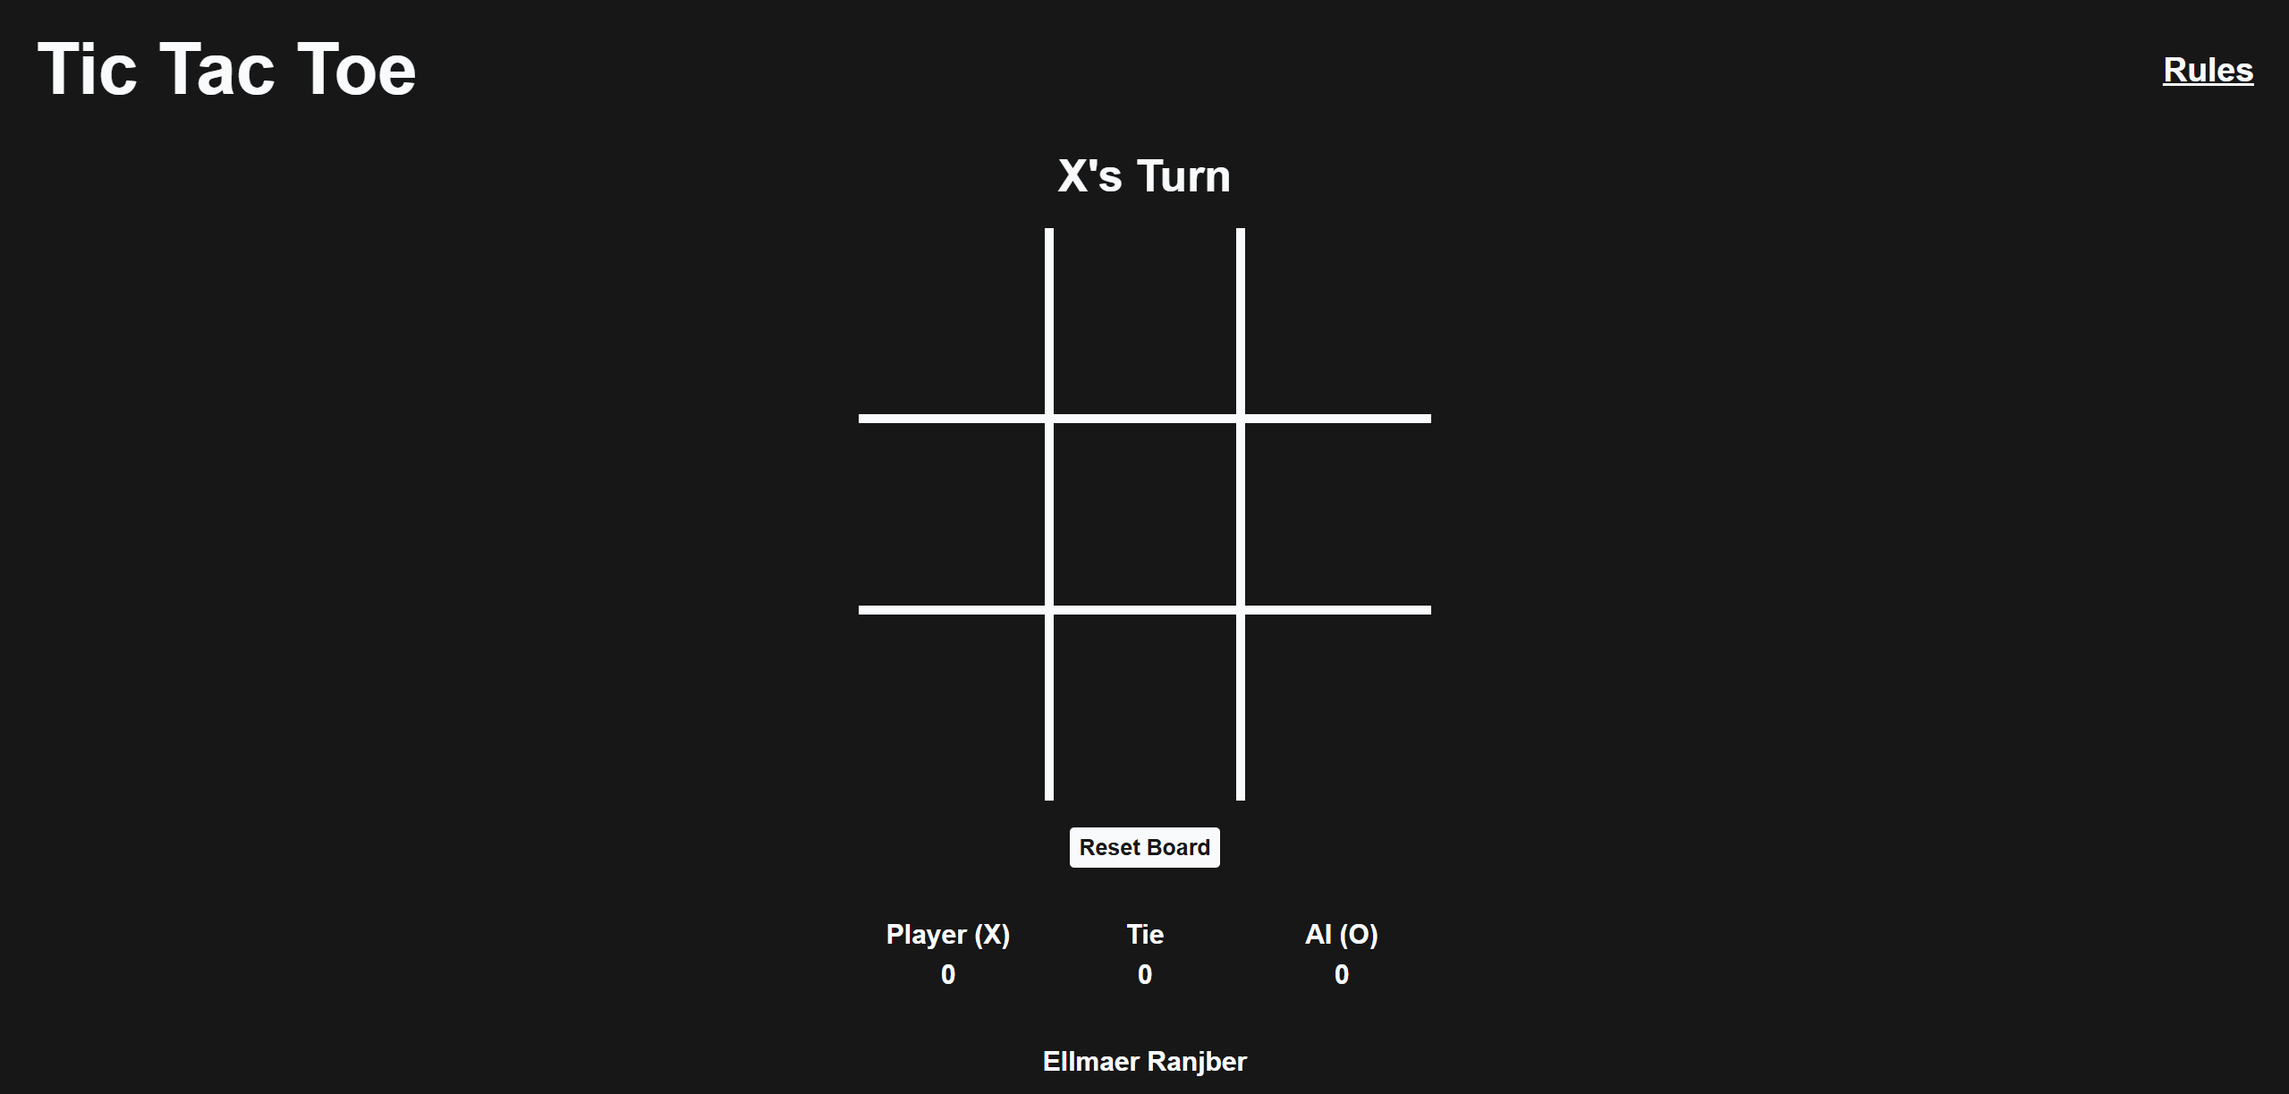
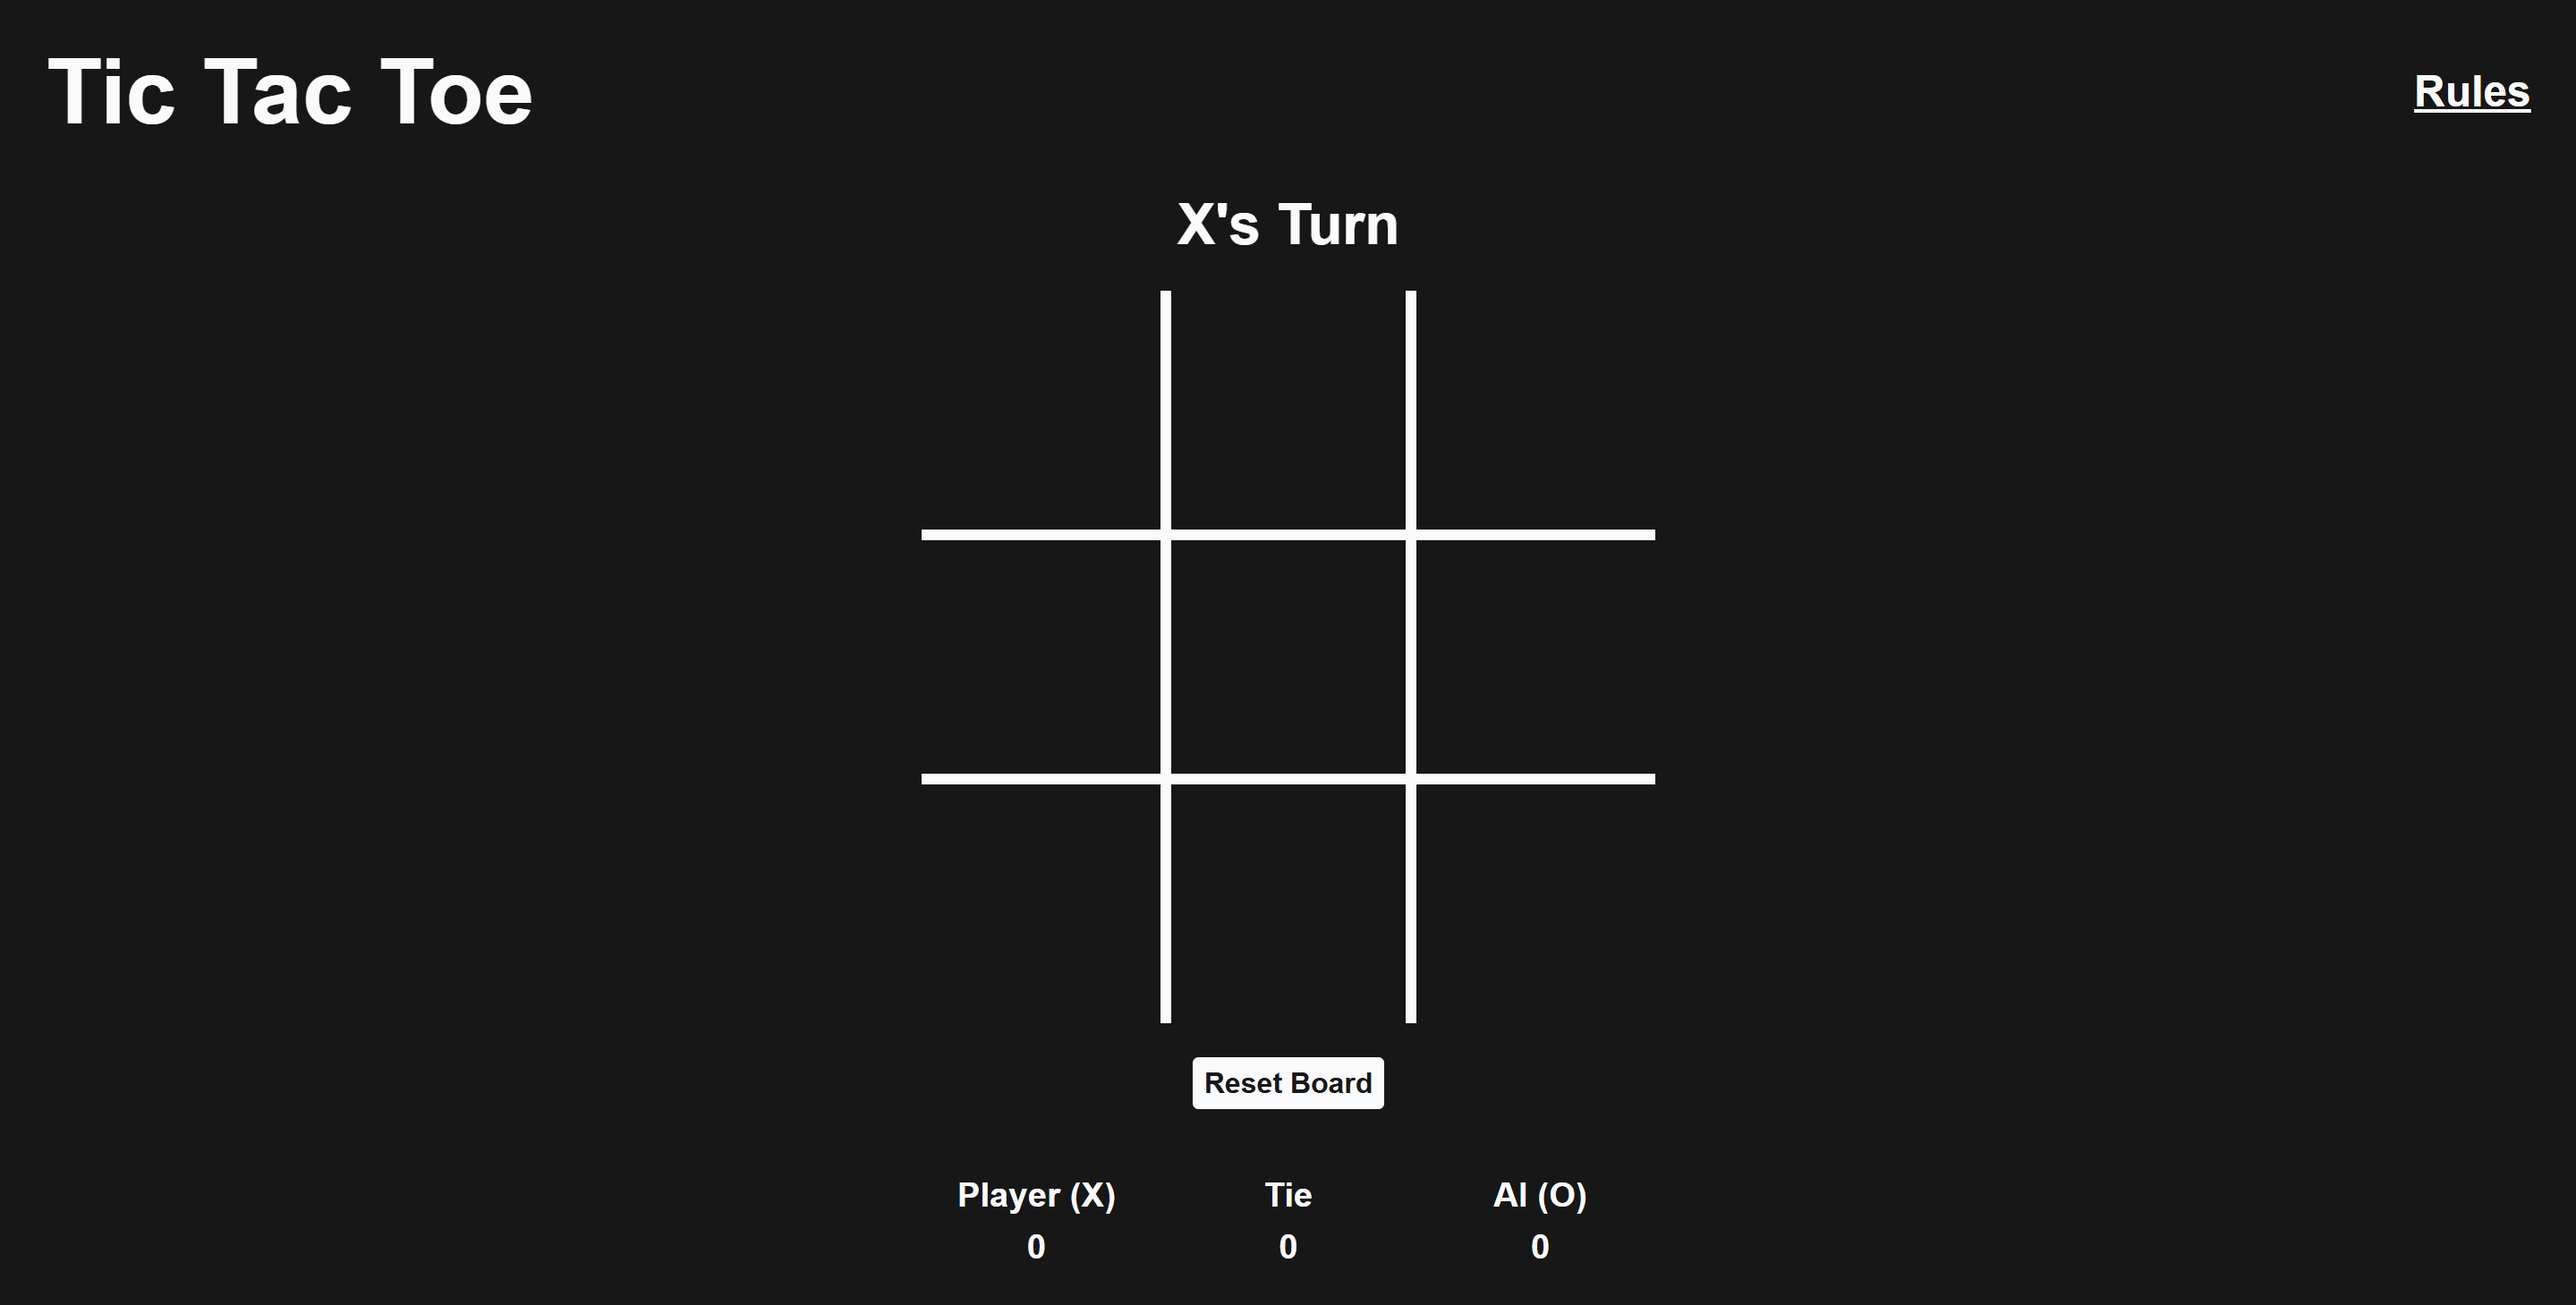
minor updates

diff --git a/tic-tac-toe/src/App.tsx b/tic-tac-toe/src/App.tsx
@@ -167,9 +167,6 @@ export default function App() {
                 </div>
             </main>
 
-            <footer className="text-center py-4 text-base xs:text-lg sm:text-xl md:text-2xl font-semibold">
-                Ellmaer Ranjber
-            </footer>
         </div>
     );
 }

diff --git a/README.md b/README.md
@@ -16,7 +16,7 @@ You can try out the **live version of the website** here:
 ## Website Demo
 
 <p align="center">
-  <img src="./assets/desktop.png" alt="Desktop view" width="80%"/>
+  <img src="./assets/desktop.png" alt="Desktop view" width="95%"/>
 </p>
 
 <p align="center">
